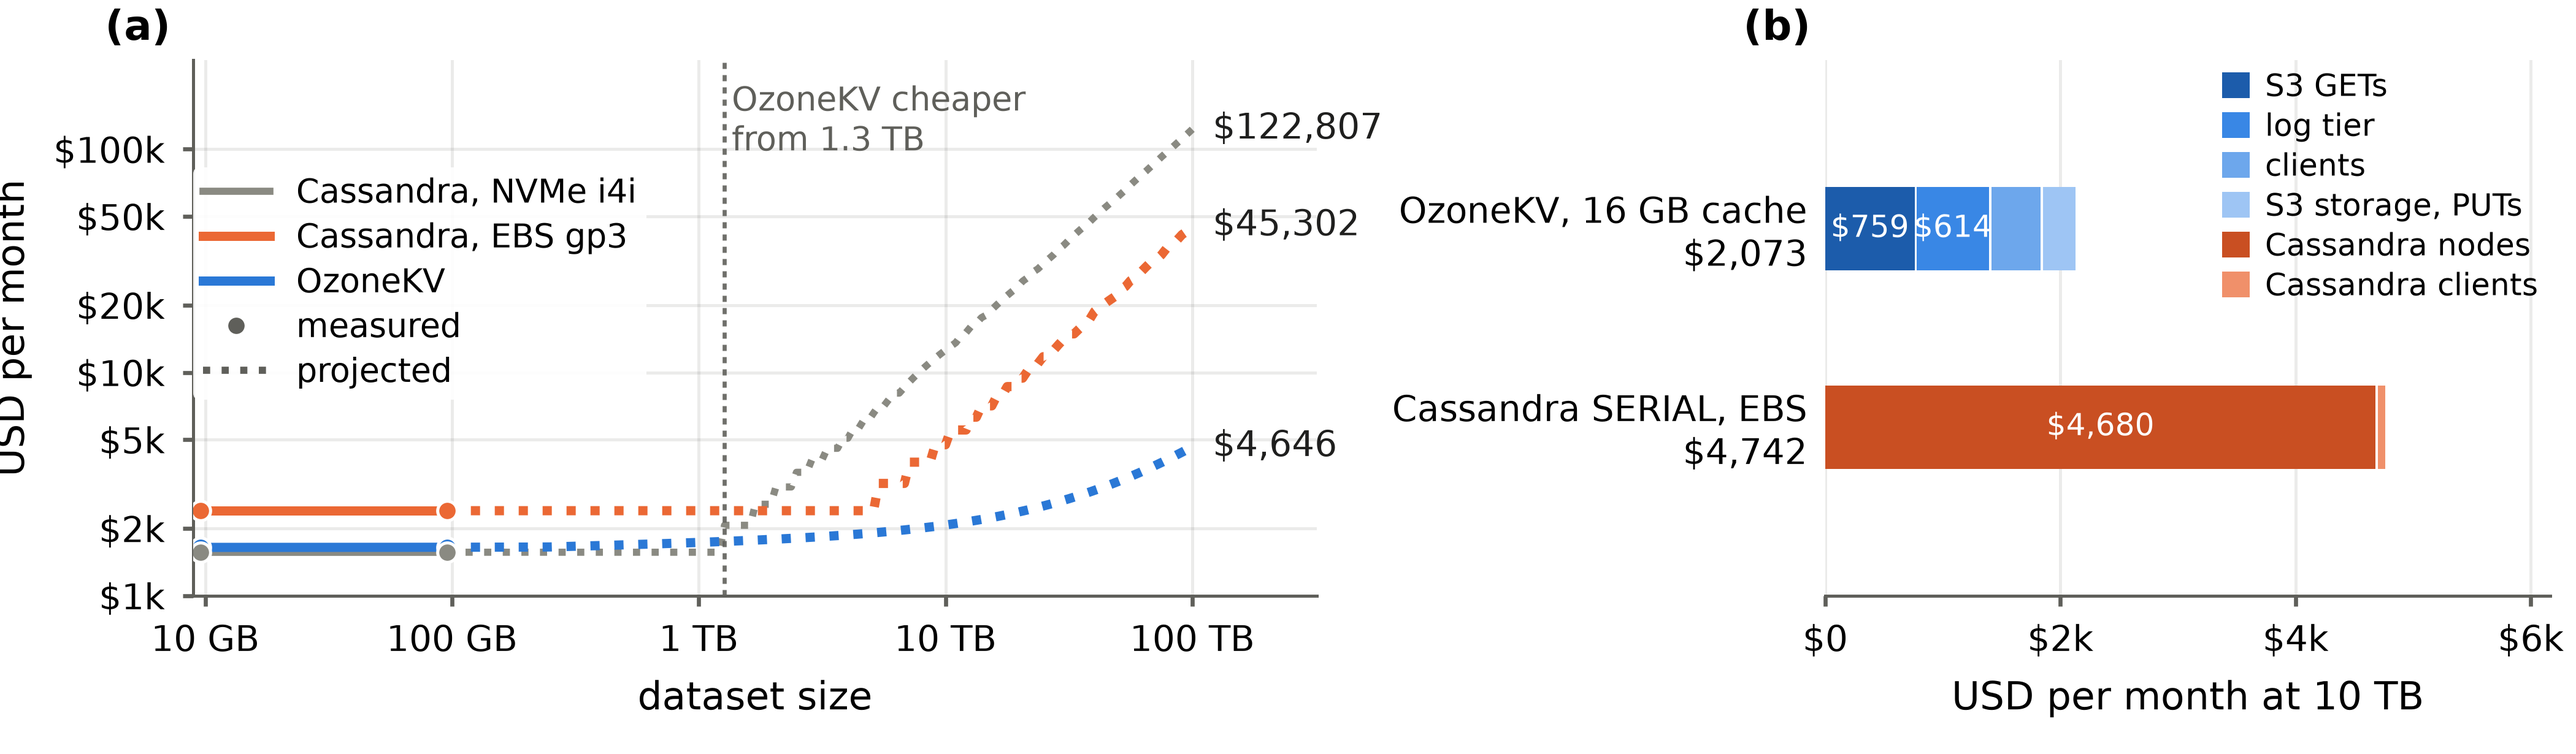
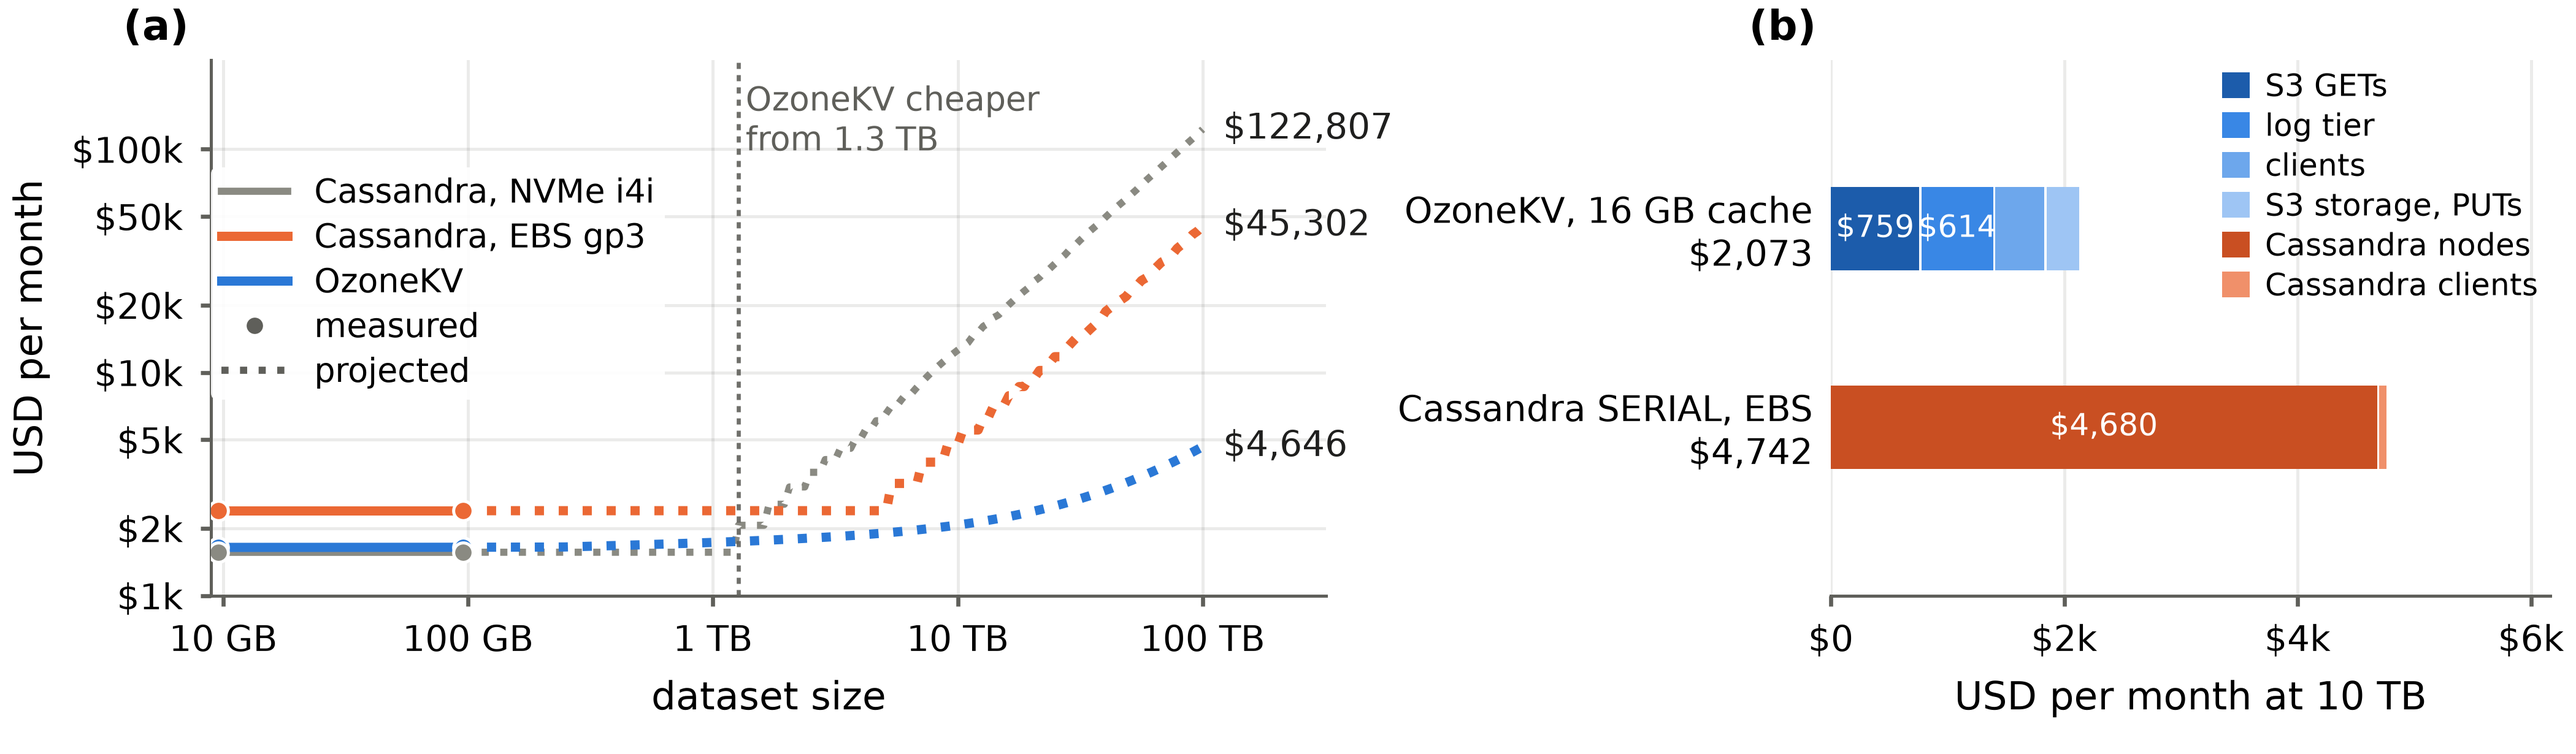
bench: paper cost figure left margins widened for DejaVu Sans
The wider glyphs pushed the y-axis label past the canvas edge.
Wide layout left 0.075 -> 0.082, column 0.143 -> 0.158.

Claude-Session: https://claude.ai/code/session_01NGxReJb9LDcmdrCuRqfn7h

diff --git a/bench/scripts/plot/paper_cost_figure.py b/bench/scripts/plot/paper_cost_figure.py
@@ -441,7 +441,7 @@ def main():
             va="bottom",
             ha="right",
         )
-    fig.subplots_adjust(left=0.075, right=0.99, top=0.92, bottom=0.21)
+    fig.subplots_adjust(left=0.082, right=0.99, top=0.92, bottom=0.21)
     for ext in ("pdf", "png"):
         fig.savefig(f"{args.out}.{ext}")
         print(f"wrote {args.out}.{ext}")
@@ -450,7 +450,7 @@ def main():
     # Single column: (a) alone.
     fig, ax = plt.subplots(figsize=(3.5, 1.6))
     panel_a(ax, coef, model, prices, s, single=True)
-    fig.subplots_adjust(left=0.143, right=0.985, top=0.962, bottom=0.25)
+    fig.subplots_adjust(left=0.158, right=0.985, top=0.962, bottom=0.25)
     for ext in ("pdf", "png"):
         fig.savefig(f"{args.out}_col.{ext}")
         print(f"wrote {args.out}_col.{ext}")
